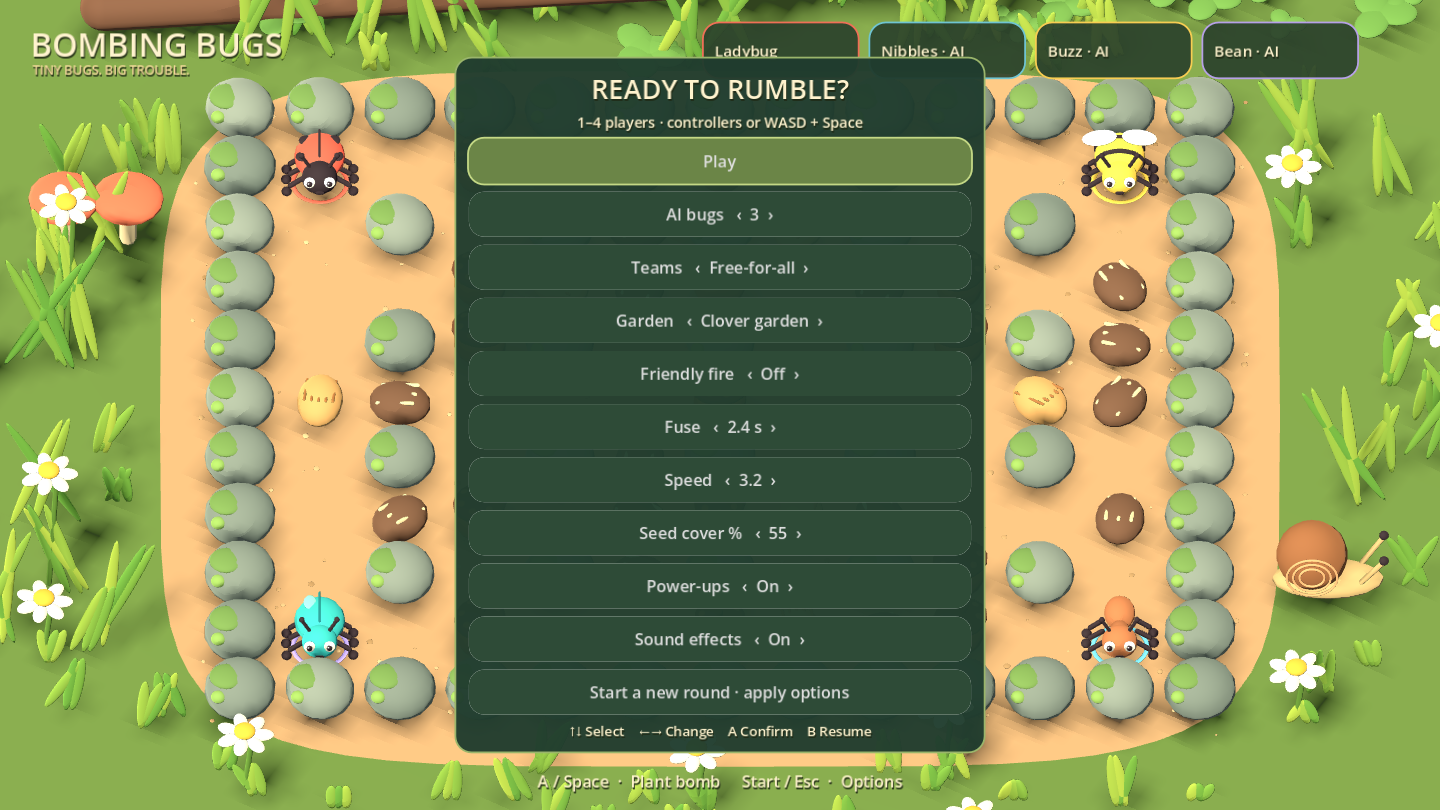
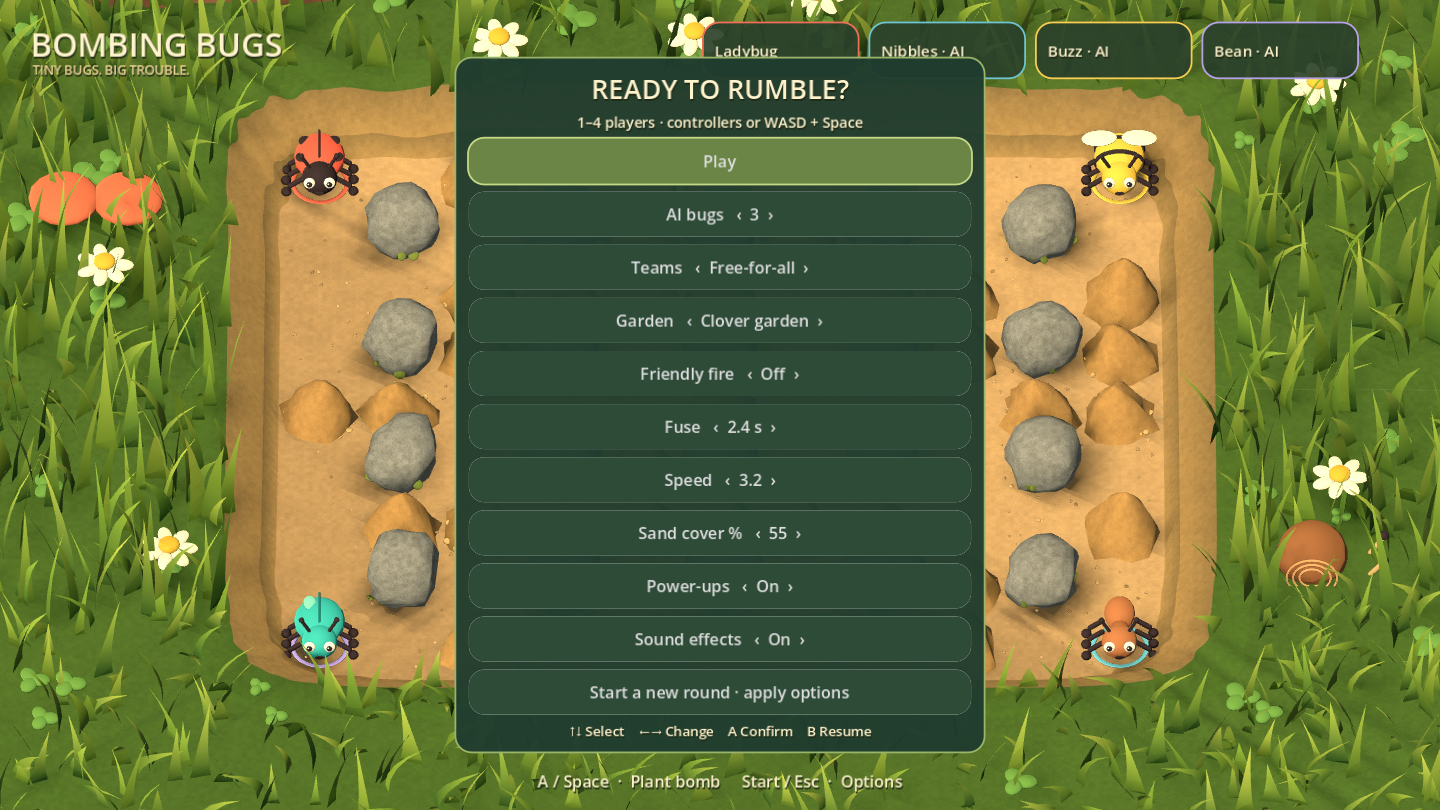
Shape Bombing Bugs into a sunken garden with sand mounds and lush grass

diff --git a/bombing-bugs/README.md b/bombing-bugs/README.md
@@ -5,8 +5,8 @@ A Godot 4.6 couch arena game inspired by Blast Party, with original procedural
 separate from the LÖVE game; adding this project does not replace a published
 Blast Party build or its catalog listing.
 
-Play a ladybug, ant, bee or beetle. Scuttle between mossy pebbles, blow open
-seeds and acorns, collect extra bomb capacity and range, and be the last bug
+Play a ladybug, ant, bee or beetle. Scuttle between mossy rocks, blow open
+sandy mounds, collect extra bomb capacity and range, and be the last bug
 (or team) standing. Bombs explode in cardinal crosses only. No diagonal or
 beam/line shape upgrades; no timer decides the winner. Results last six seconds
 or until a player presses A, then the next round starts.
@@ -54,7 +54,7 @@ standard host setting API; no game-specific LLM endpoint is necessary:
 | `friendly_fire` | Boolean | Next round |
 | `fuse` | 15–40 tenths of a second | Next round |
 | `speed` | 20–50 tenths of a tile/second | Next round |
-| `crates` | 20–75 percent seed cover | Next round |
+| `crates` | 20–75 percent sand cover | Next round |
 | `pickups` | Boolean | Next round |
 | `sound` | Boolean | Live |
 
